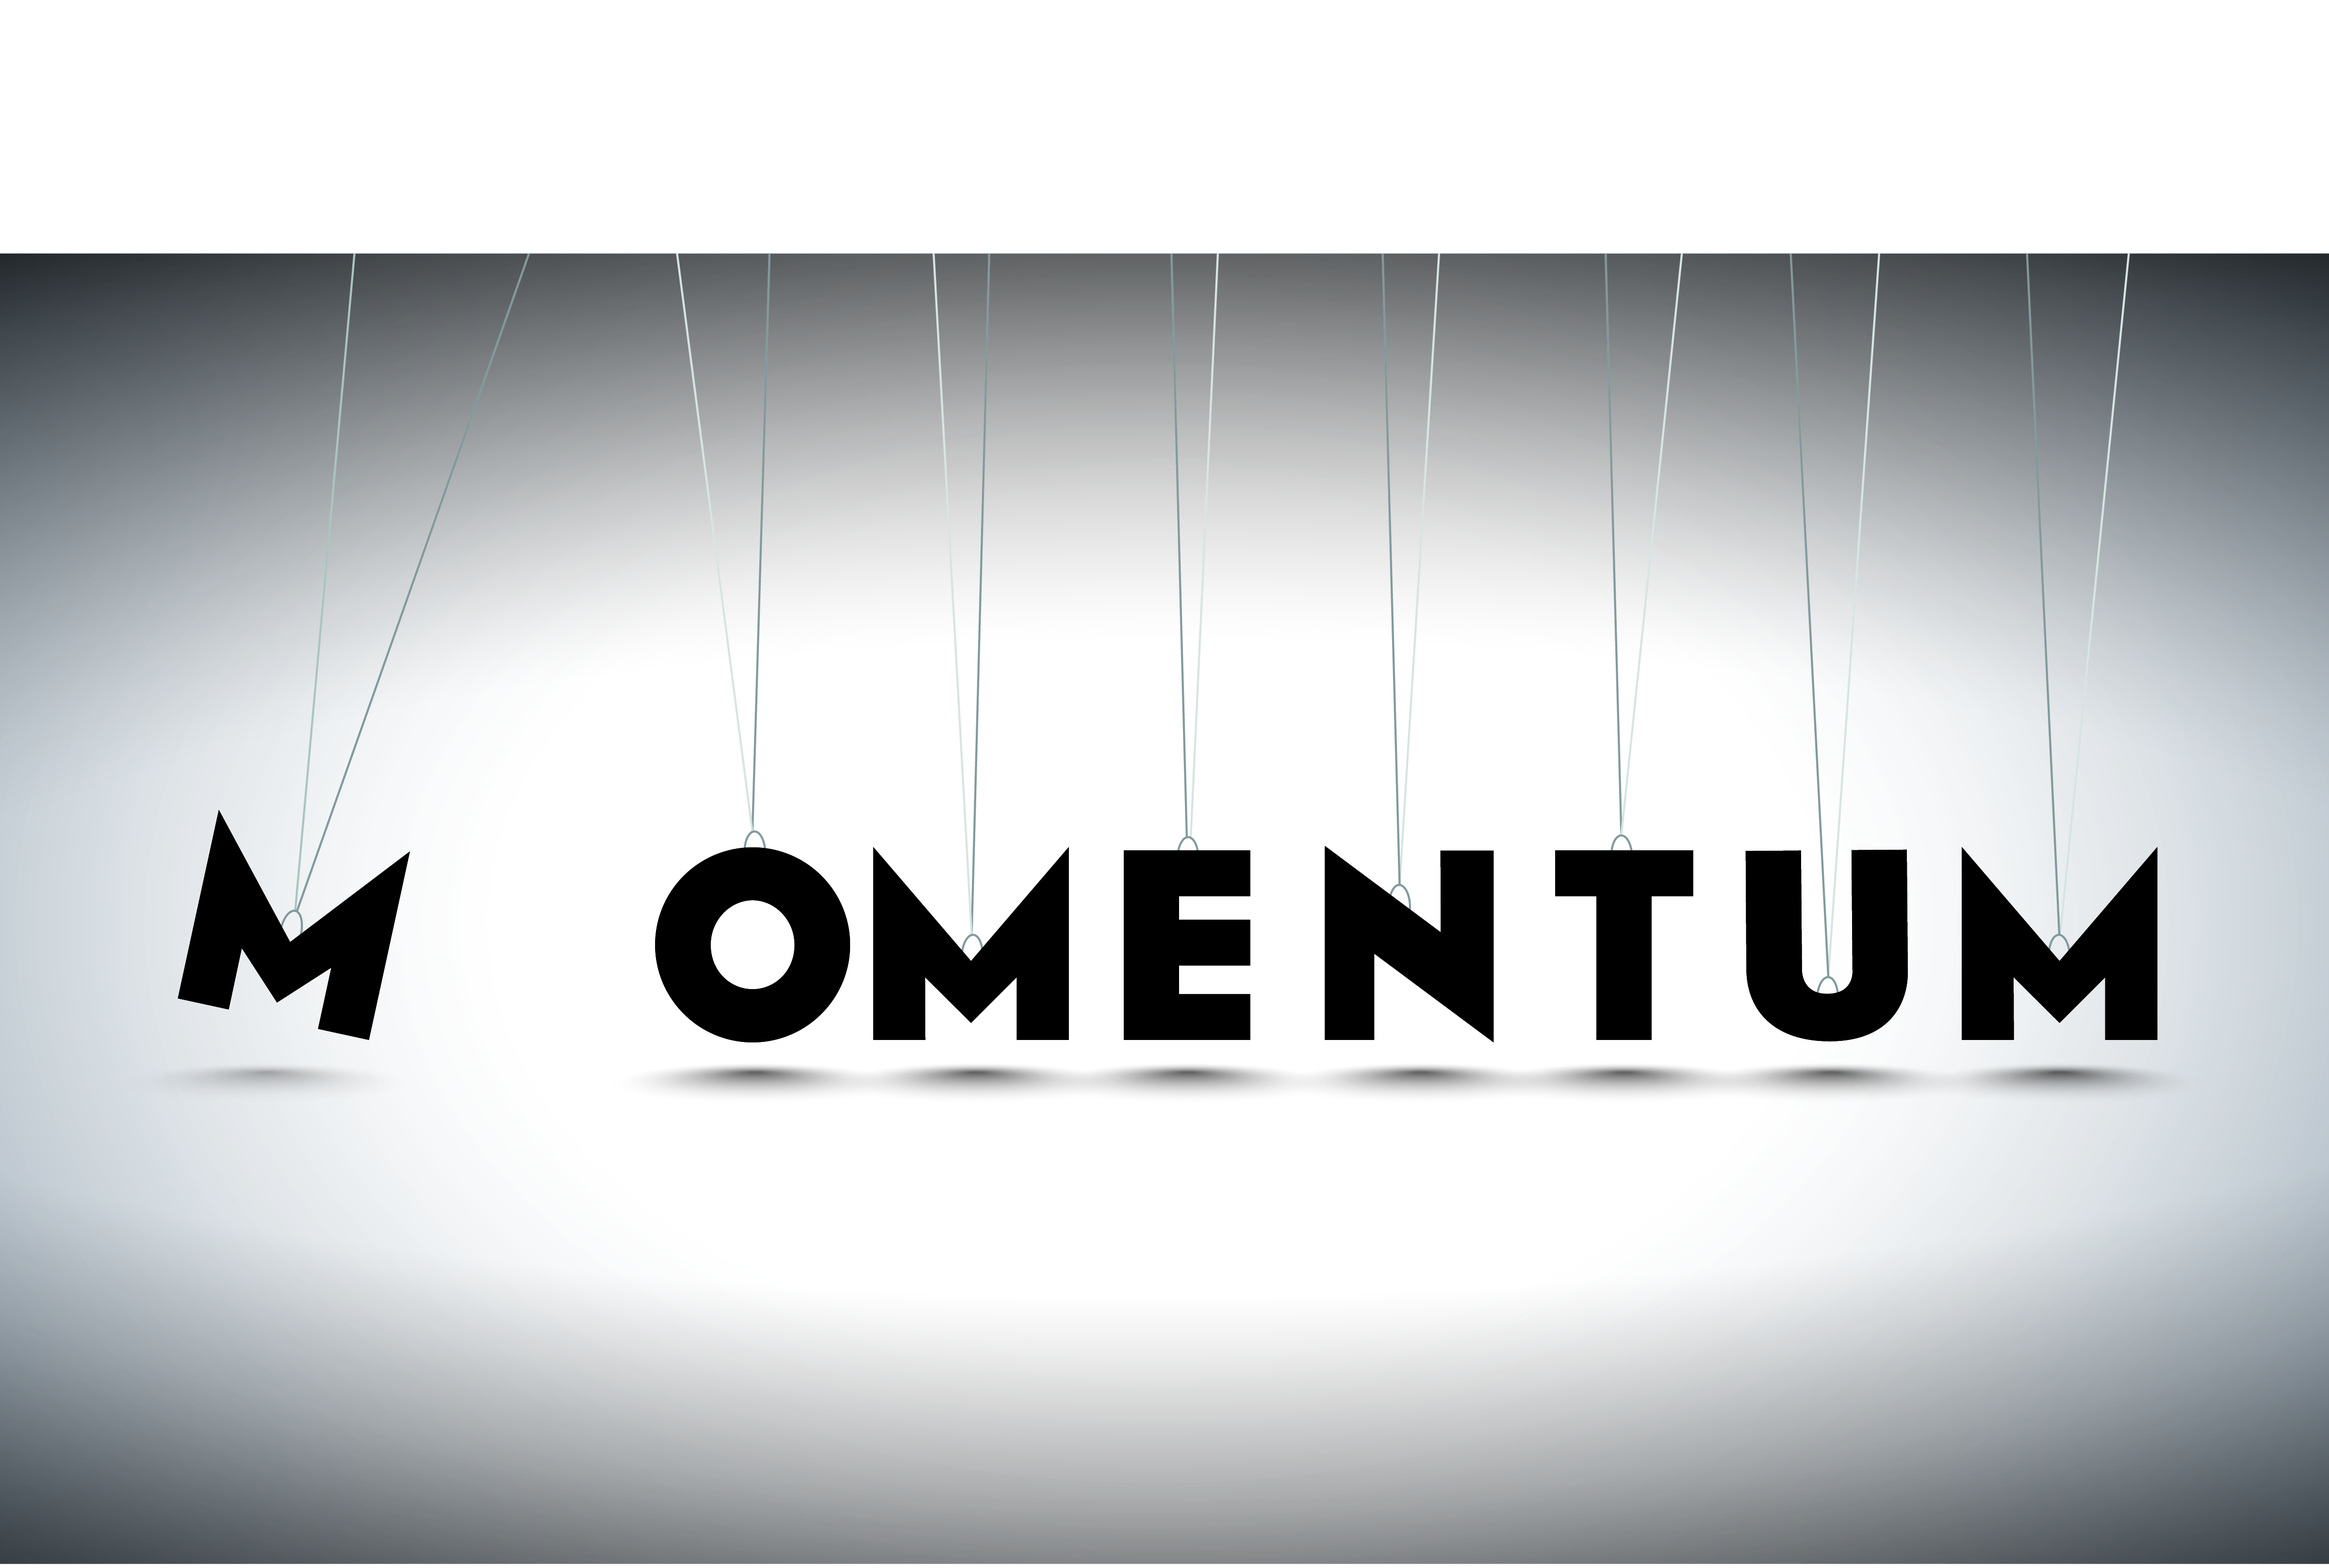
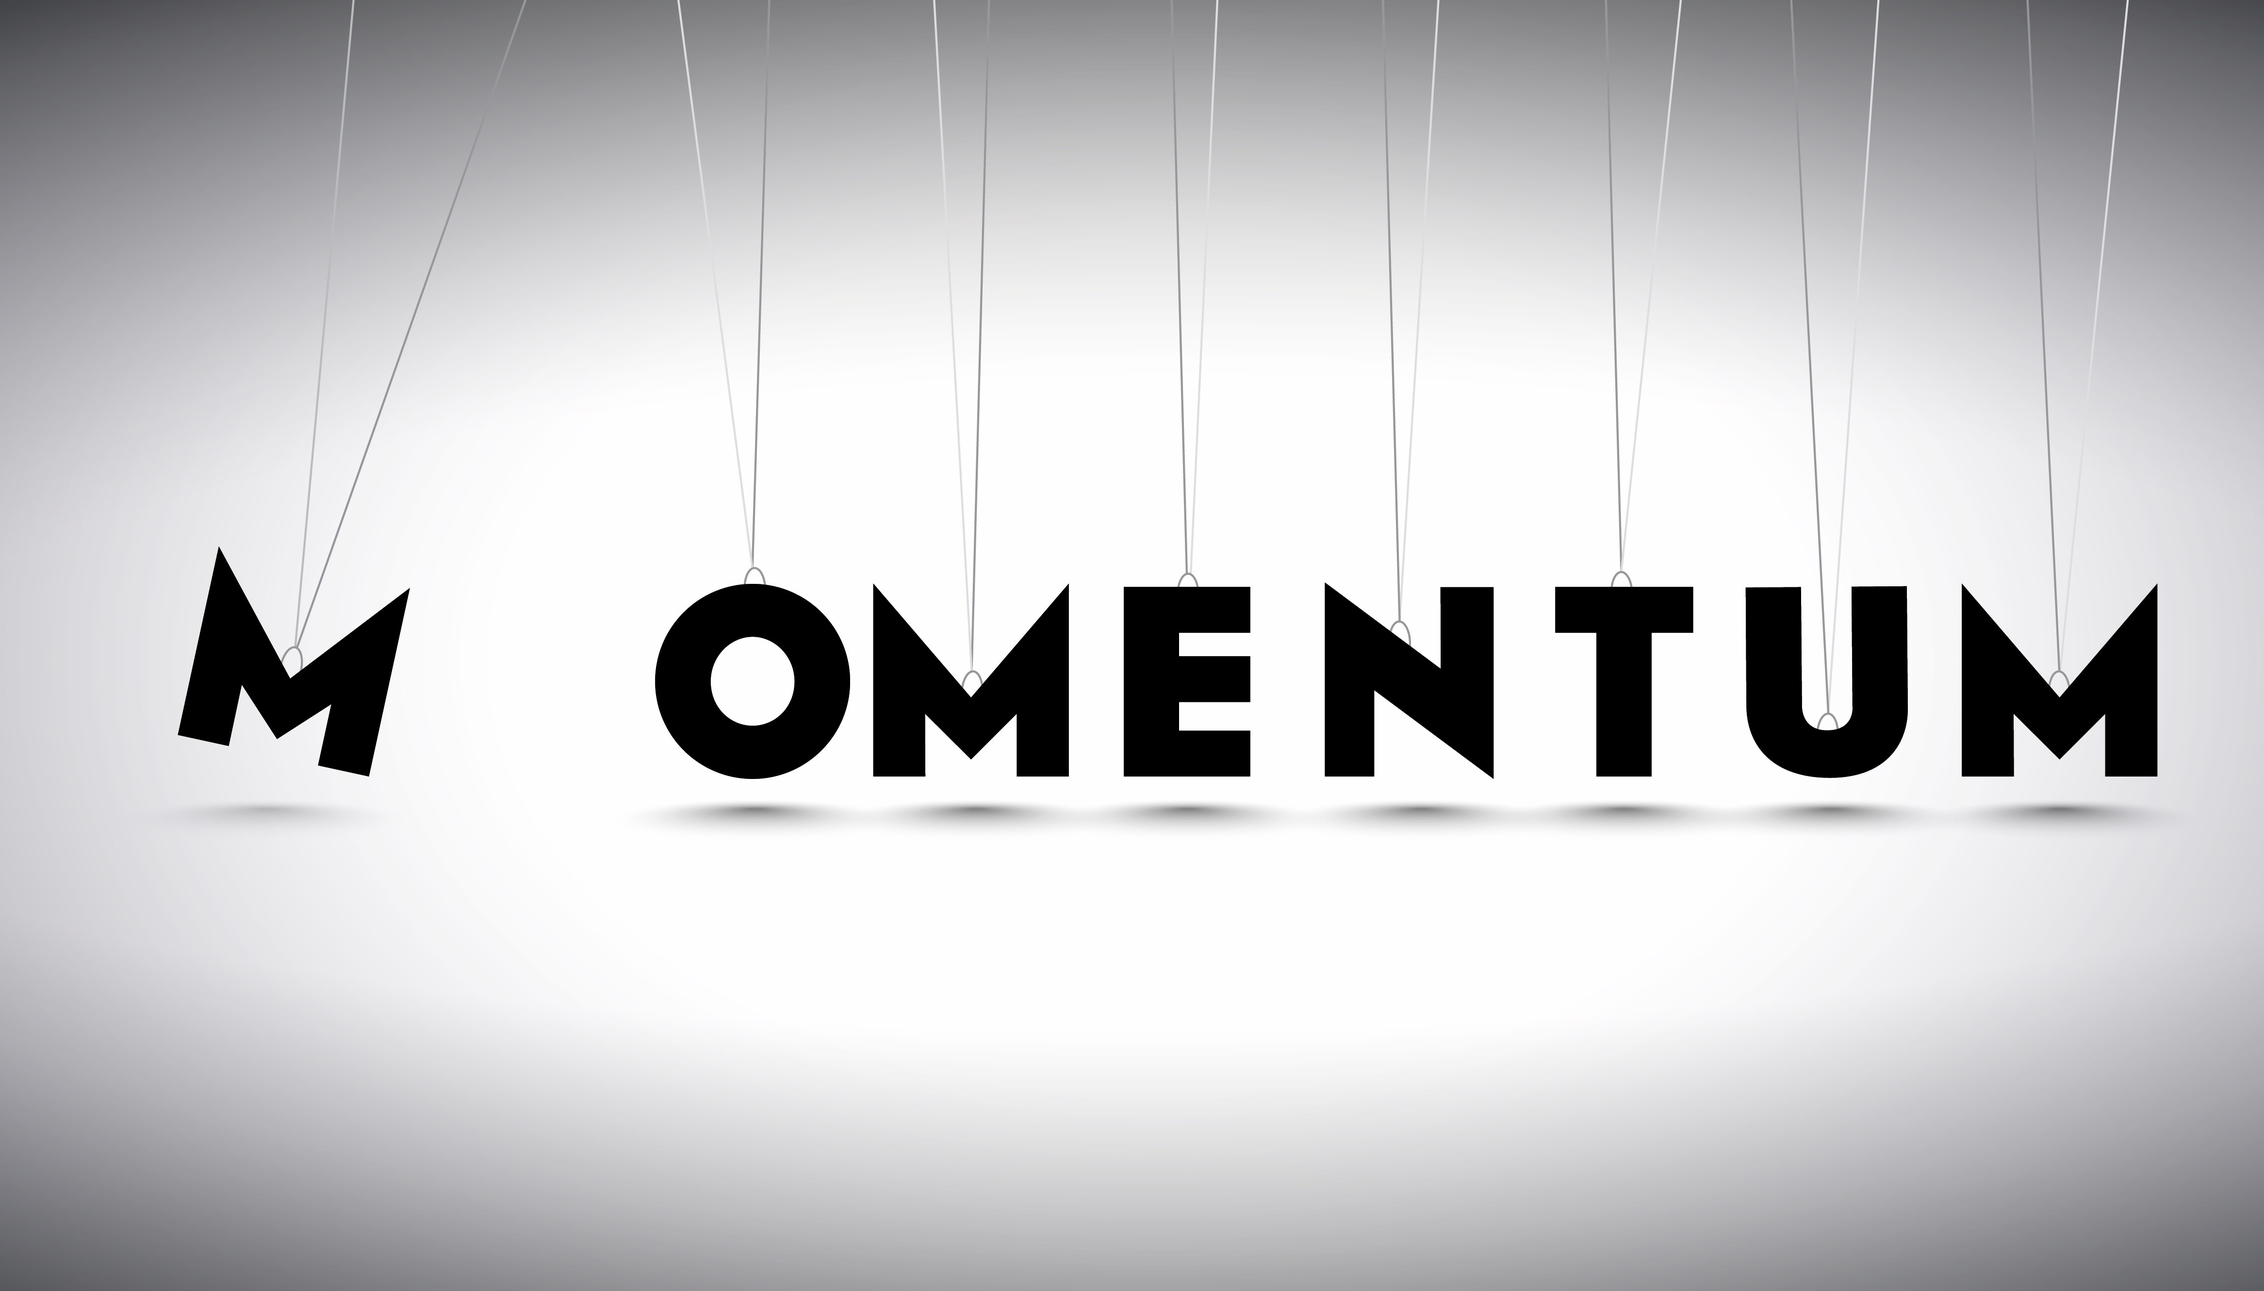
added image to bkgrd

diff --git a/public/stylesheets/style.css b/public/stylesheets/style.css
@@ -1,5 +1,5 @@
-body {
-  background: url('http://naijachurch.com/wp-content/uploads/2014/04/momentum.jpg');	
+html {	
+  background: center url('../images/Momentum.jpg');	
   padding: 50px;
   font: 14px "Lucida Grande", Helvetica, Arial, sans-serif;
 }
@@ -86,7 +86,8 @@ a {
 }
 
 .text-center{
-	padding-top: 25%;
+	margin-top: 75%;
+	bottom: 0;
 	clear:both;
 }
 
